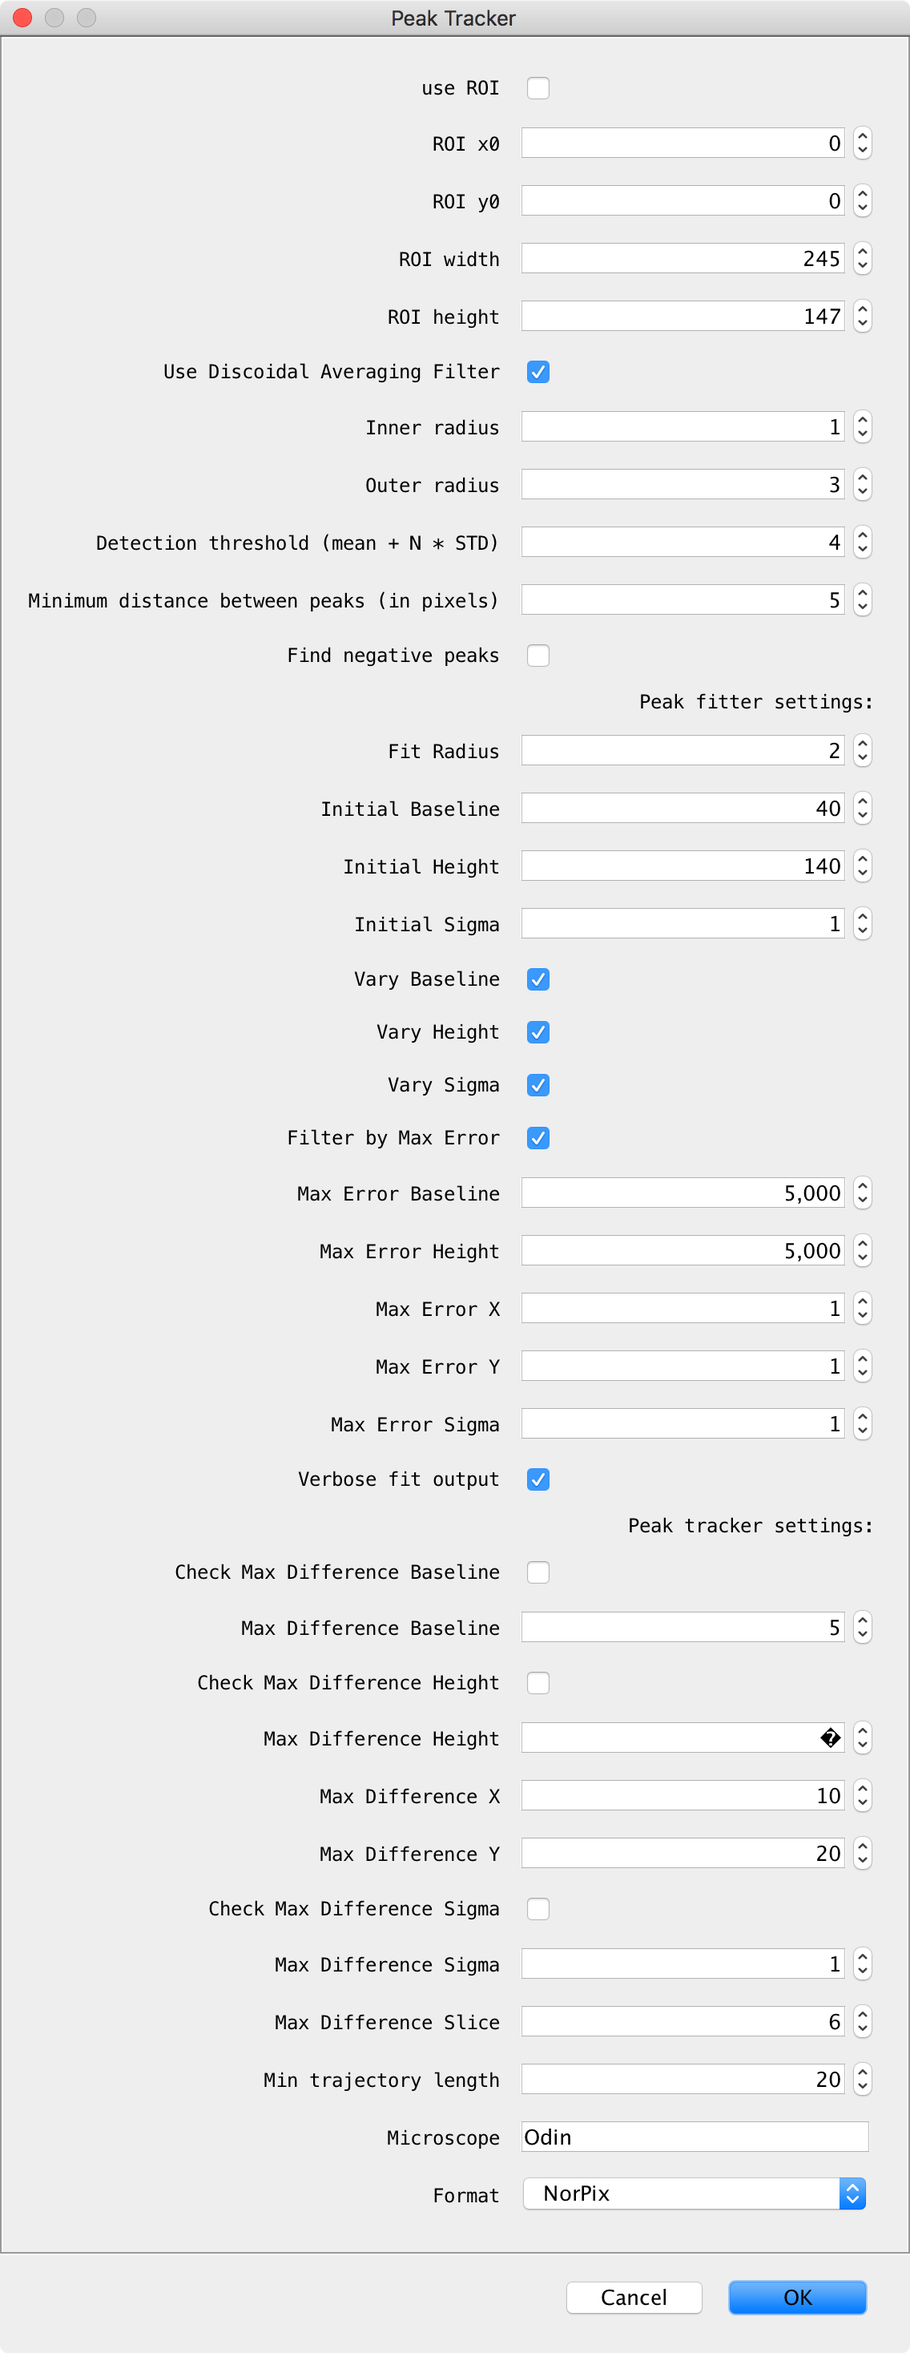
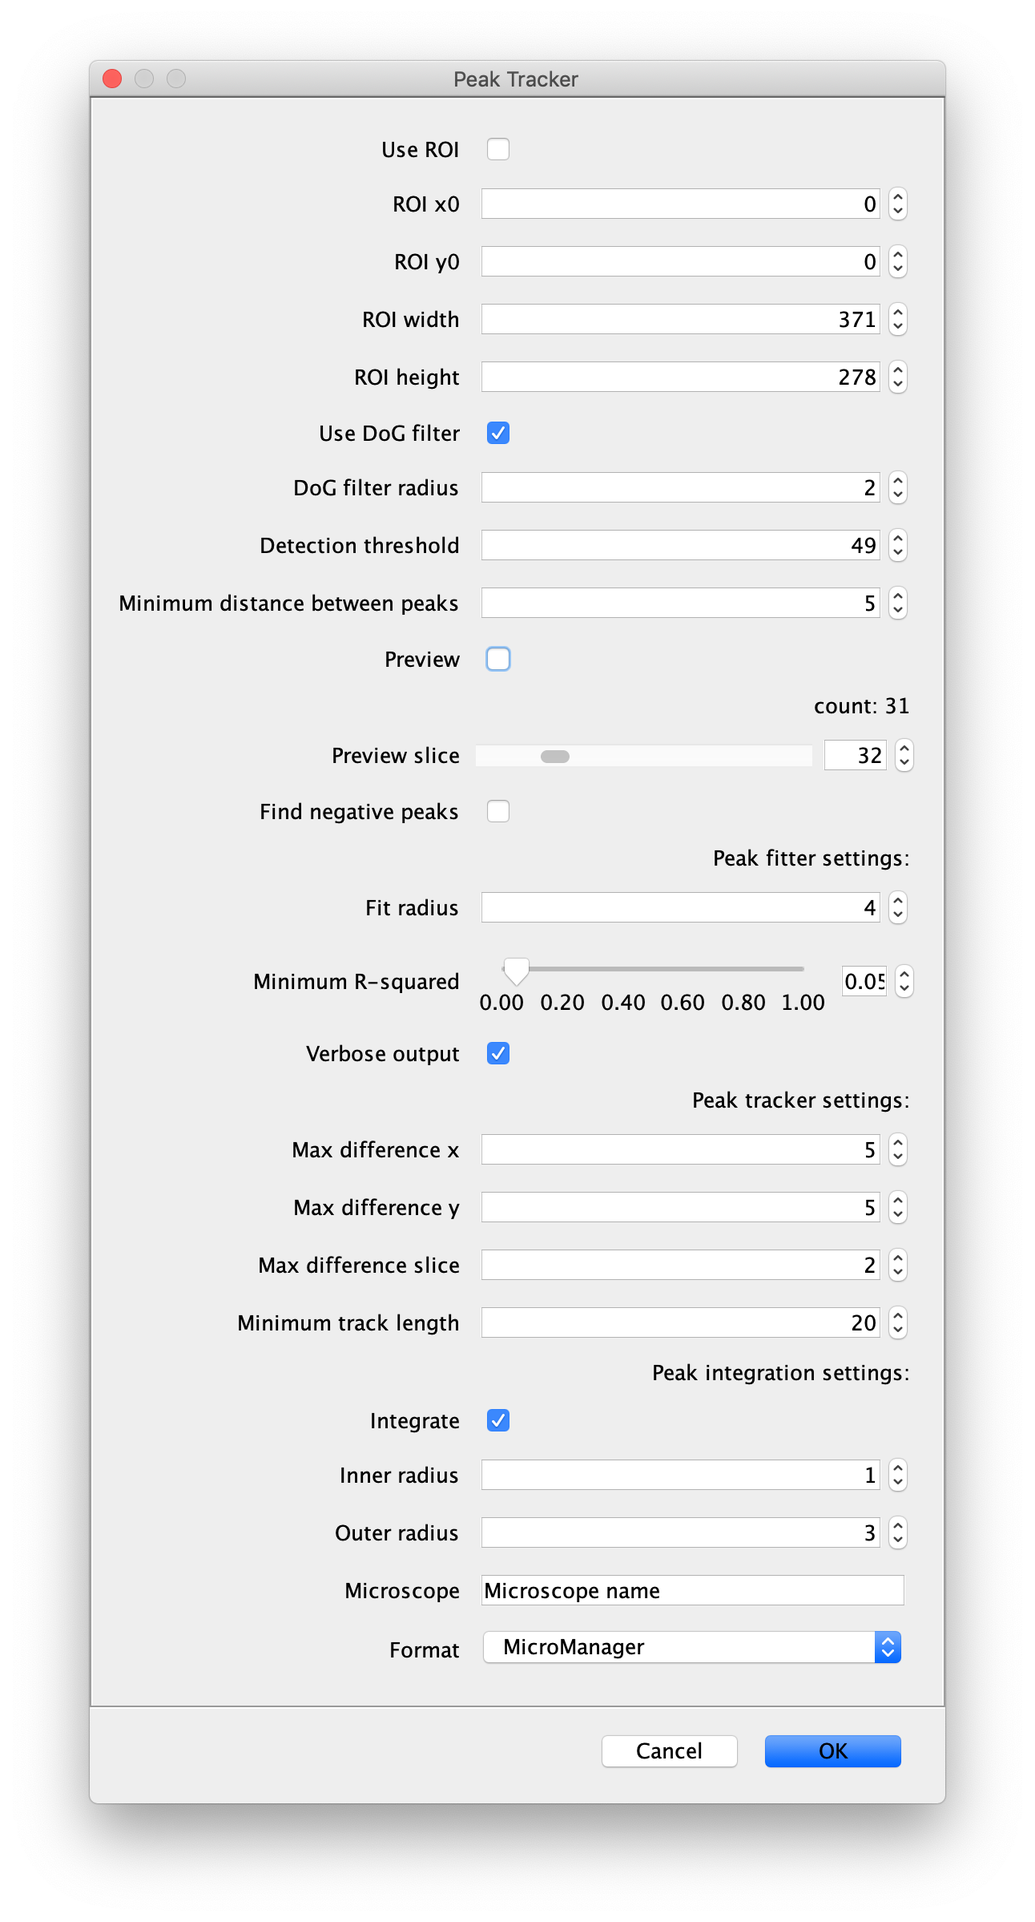
Update PeakTracker documentation

diff --git a/docs/image/PeakTracker.md b/docs/image/PeakTracker.md
@@ -3,19 +3,19 @@ layout: image
 title: Peak Tracker
 permalink: /docs/image/PeakTracker/index.html
 ---
-This command is used to find, fit and track peaks in images. Typically these are polystyrene beads or single fluorescent dyes or groups of dyes attached to biomolecules. This command is nearly the same as the [[PeakFinder]] command but with the addition of tracking and fewer output options. So a lot of the input documentation is the same between the two commands.
+This command is used to find, fit and track peaks in images. Typically these are polystyrene beads or single fluorescent dyes or groups of dyes attached to biomolecules. This command is nearly the same as the [PeakFinder](PeakFinder) command but with the addition of tracking and fewer output options. So a lot of the input documentation is the same between the two commands.
 
 To determine the optimal setting for peak finder, first the [[PeakFinder]] command can be used with the Preview button. Once the best settings have been determined - that find all peaks with minimal background - the settings can be used here. This will generate the best tracks because the accuracy of tracking depends entirely on the quality of the peak fits in individual frames.
 
 This command outputs a MoleculeArchive in which individual molecule records have DataTables with the x and y positions and slice. If verbose is checked, then all fit parameters are add to the DataTable. The MoleculeArchive will also contain metadata information from the image that can be used to convert from slice to Time and do a number of other useful operations provided by the other commands in the MoleculeArchive submenu.
 
-The [[ColorCodedTrackOverlay]] groovy script provides and excellent method for overlapping the tracking results with UIDs onto the image using the MoleculeArchive records. By running the movie forward frame by frame it is possible to see when tracking goes wrong and how to further optimise the tracking settings.
+The [Color coded track overlay]() groovy script provides and excellent method for overlapping the tracking results with UIDs onto the image using the MoleculeArchive records. By running the movie forward frame by frame it is possible to see when tracking goes wrong and how to further optimise the tracking settings.
 
-*Note* - Currently the status bar only runs during the peak finding and fitting steps. But tracking can also take some time. So be patient and your archive will appear. You can always check the console to see if a problem has occurred under Window->Console. Here you will also find the time it took for each step of the process and all the settings. The setting will also be placed in the log of the ImageMetaData record created and placed into the outputted MoleculeArchive.
+*Note* - Currently the status bar only runs during the peak finding and fitting steps. But tracking can also take some time. So be patient and your archive will appear. You can always check the console to see if a problem has occurred under Window->Console. Here you will also find the time it took for each step of the process and all the settings. The setting will also be placed in the log of the metadata record created and placed into the MoleculeArchive created.
 
 #### Inputs
 
-OMG that is a lot of inputs, but don't panic, they are all pretty simple to understand and overlap with the [[PeakFinder]] options. A lot of inputs are included for completeness to give fine control but are not needed in most normal cases.
+There are a lot of inputs, but don't panic, they are all pretty simple to understand and overlap with the [PeakFinder](PeakFinder) options. A lot of inputs are included for completeness to give fine control but do not need to be changed in most cases.
 
 <img align='center' src='{{site.baseurl}}/docs/image/img/Peak Tracker.png' width='450' />
 
@@ -25,63 +25,37 @@ OMG that is a lot of inputs, but don't panic, they are all pretty simple to unde
 * *ROI y0* - Upper right corner y0 position of ROI.
 * *ROI width* - width of the ROI.
 * *ROI height* - height of the ROI.
-* *Use Discoidal Averaging Filter* - If checked the image will be processed with a discoidal averaging filter using the Inner radius and Outer radius prior to peak finding. If unchecked the raw image will be used and the Inner and Outer radius settings will be ignored.
-* *Inner Radius* - Inner Radius beyond a single pixel used for discoidal processing. This should be enough to include your peak.
-* *Outer Radius* - Outer Radius determines the size of the ring used for calculating the background for discoidal averaging. This needs to be large enough so peak signal is exlcuded.
+* *Use DoG filter* - If checked the image will be processed with a Difference of Gaussian (DoG) filter before peak finding. Using an appropriately chosen radius this filter enhances real peaks with signal spread among several pixels and suppresses salt and pepper noise as demonstrated in [this systematic study](DoGFilterProperties). If unchecked the raw image will be used for peak finding.
+* *DoG filter radius* - The radius used for DoG filtering. The value chosen should reflect the size of the desired peaks. Decimal numbers are permitted.
 
-<img align='center' src='{{site.baseurl}}/docs/image/img/DS filter.png' width='600' />
+<img align='center' src='{{site.baseurl}}/docs/image/img/DoGFilterRadiiExample.png' width='600' />
 
-* *Detection threshold (mean + N * STD)* - This is how many standard deviations above the mean the peak detection threshold should be set at. So the input here is N in the expression. mean is the mean value of pixels in the image and STD is the standard deviation in the pixel values. Usually, between 2 and 4 is good for low signals and 5-8 is good for higher signals.
-* *Minimum distance between peaks (in pixels)* - This is the minimum allowed distance between peaks, This means only the pixel with the highest intensity within this radius will be accepted as a peak, even if there are other peaks above the threshold within this radius region. This is an important setting since most peaks have nearby pixels that are also above the detection threshold, but we only want to detect each peak once. See the image below for an example.
+* *Detection threshold* - This is threshold in pixel value used for peak detection. Pixels with values above this threshold are considered peaks and pixels below this threshold are considered background. For everyday peak detection, the DoG filter should be used in which case this threshold using on the DoG filtered image. In this case, we have found that values between 40 and 60 provide [optimal detection](DoGFilterProperties) for typical single-molecule observations. If the DoG Filter is turned off this threshold reflects raw pixel values in the input image.
+* *Minimum distance between peaks* - This is the minimum allowed distance between peaks. This means only the pixel with the highest intensity within this radius will be accepted as a peak, even if there are other pixels above the threshold within this radius region. This is an important setting since most peaks have nearby pixels that are also above the detection threshold, but we only want to detect each peak once. See the image below for an example.
 
 <img align='center' src='{{site.baseurl}}/docs/image/img/Minimum Distance.png' width='500' />
 
-* *Find Negative Peaks* - If checked this inverts the image for the purposes of peak detection, so that only peaks with negative values are detected. This is used in gradient images, where a negative gradient can results in a negative peak. This is useful for detecting the edges of long DNA molecules.
-* *Fit peaks* - If checked all peaks will be fit with 2D Gaussians to determine the sub pixel position. If left unchecked, all the remaining settings will be ignored and the peaks will be reported with their integer pixel positions. Fitting is done with the following 2D Gaussian equation:
+* *Find Negative Peaks* - If checked peak with negative pixel values are detected. This can be used in gradient images, where a negative gradient results in a negative peak. This is useful for detecting the edges of long DNA molecules and other structures.
 
-<img align='center' src='{{site.baseurl}}/docs/image/img/2D Gaussian.png' width='500' />
-
-Where x0 and y0 are the subpixel positions of the peak, Height, Baseline and Sigma match the settings below and f(x,y) gives the intensity as a function of pixel position for a given set of parameters.
-* *Fit Radius* - The radius of pixels used for fitting. 0 is one pixel, 1 is 9 pixels, 2 is 25 pixels. Usually 2 is a pretty good estimate depending on the peak size. There needs to be some pixels at the edges close to background for an ideal fit.
-* *Initial Baseline* - The initial guess for the mean background pixel value.
-* *Initial Height* - The initial guess for the difference between the mean background pixel at the value of the pixel at the top of the peak.
-* *Initial Sigma* - The initial guess for the sigma of the 2D Gaussian. Approx. 68% of the peak intensity should lie within one sigma (within one standard deviation from the center).
-* *Vary Baseline* - If checked the baseline will be refined to obtain the best fit. If left unchecked the initial baseline will be used as a constant during fitting.
-* *Vary Height* - If checked the height will be refined to obtain the best fit. If left unchecked the initial height will be used as a constant during fitting.
-* *Vary Sigma* - If checked the sigma will be refined to obtain the best fit. If left unchecked the initial sigma will be used as a constant during fitting.
-
-The following are the max allowed error in each parameter. If the error from fitting is larger than these estimates, then the fit will be rejected and the peak will be thrown-out. For optimal filtering these parameters should be empirically optimized by looking at the Verbose table fit output with Filter by Max Error checked. Then check Filter by Max Error with acceptable settings so only good fits are included.
-* *Filter by Max Error* - If checked all peaks fits will be checked again the Max Error thresholds below. If the error is beyond the threshold then the peak will be rejected and not included in the output. If unchecked all peak fit will be reported even very bad fits that might contain NaN values. If you have to use a low threshold to detect your peaks and you pick up some background (you should be able to see this using the preview button)
-* *Max Error Baseline* - The maximum allowed error in the baseline during fitting.
-* *Max Error Height* - The maximum allowed error in the height during fitting.
-* *Max Error X* - The maximum allowed error in the x coordinate during fitting.
-* *Max Error Y* - The maximum allowed error in the y coordinate during fitting.
-* *Max Error Sigma* - The maximum allowed error in Sigma during fitting.
-* *Verbose table fit output* - If checked all columns from fitting will be included in the table generated (baseline, error_baseline, height, error_height, x, error_x, y, error_y, sigma, error_sigma). If unchecked only the position columns will be included in the table generated (x, y). Very useful for optimising the parameters, or for other applications using various peak properties.
-The following are the setting for tracking absent in the [[PeakFinder]] command. Once all peaks have been found and fit, the program still doesn't know which peaks correspond to which molecules between slices. To connect all the peaks, the Peak Tracker does a nearest-neighbor search between frames. So the closest peak in the next frame to the current peak position is considered the same molecule.
+* *Fit Radius* - The radius of pixels used for peak fitting. 0 is one pixel, 1 is 9 pixels, 2 is 25 pixels. Usually 3 or 4 is a good estimate depending for typical single-molecule observations. Optimal fitting is done using a region with background pixels at the edges.
+* *Minimum R-squared* - This is the minimum allowed value for peak fits. R-squared is defined as 1 - SSres / SStot to match the definition used in [Prism](
+https://www.graphpad.com/guides/prism/7/curve-fitting/reg_intepretingnonlinr2.htm) as defined [here](https://en.wikipedia.org/wiki/Coefficient_of_determination) with 1.0 for perfect fits and 0.0 for fits no better than a straight line. Typical single-molecule images are noisy leading to large variation in R-squared values so this threshold should only be used as an additional step if further peak rejection is required. If set to 0, the R-square value will not be calculated. Values of 0.05 to 0.15 are reasonable for noisy images.
+* *Verbose output* - If checked all fit parameters are included in the output (baseline, height, x, y, sigma, R2). If unchecked only the position, slice, intensity columns will be included in the output. Verbose output can be used to optimise the R-squared minimum, or for calculations based on peak properties.
+The following are the settings for tracking absent in the [PeakFinder](PeakFinder) command. Once all peaks have been found and fit, which peaks correspond to which molecules between slices is still unknown. To connect all the peaks, the Peak Tracker does a nearest-neighbor search between frames. The closest peak in the next frame to the current peak position is considered the same molecule.
 
 <img align='center' src='{{site.baseurl}}/docs/image/img/Tracking Peak Stack.png' width='400' />
 
-* *Check Max Difference Baseline* - If checked the Max Difference Baseline setting will be used as a threshold to determine if the baseline difference for two peaks is too large for them to be linked. If left unchecked this setting is ignored. (Maybe this shouldn't set an included setting since usually the baseline is always the same and is just the image background level...)
-* *Max Difference Baseline* - The threshold baseline difference between peaks below which they are still allowed to be linked.
-* *Check Max Difference Height* - If checked the Max Difference Height setting will be used as a threshold to determine if the height difference for two peaks is too large for them to be linked. If left unchecked this setting is ignored. This can exclude linking of a very bright and very dim peak. For example, a single bead and a clump, or a single dye vs a cluster.
-* *Max Difference Height* - The threshold height difference between peaks below which they are still allowed to be linked. This is probably best determine using the [[PeakFinder]] in verbose mode and then looking at the differences between dim and bright peaks.
-The following settings define the boundaries of nearest neighbors that are allowed to be linked. These are very useful at ensuring only real links are made. Also, if you know your molecule only moves along once dimension you can restrict the other to further prevent incorrect links from occurring.
 * *Max Difference X* - The threshold difference between the X position of two peaks below which they are still allowed to be linked.
 * *Max Difference Y* - The threshold difference between the Y position of two peaks below which they are still allowed to be linked.
-* *Check Max Difference Sigma* - If checked the Max Difference Sigma setting will be used as a threshold to determine if the Sigma difference for two peaks is too large for them to be linked. If left unchecked this setting is ignored. Again this can be useful in preventing links between bright and dim molecules, since the bright molecules typically have a larger sigma or width.
-* *Max Difference Sigma* - The threshold difference between the Sigma values of two peaks below which they are still allowed to be linked.
 
-<img align='center' src='{{site.baseurl}}/docs/image/img/Peak Difference Settings.png' width='400' />
-
-* *Max Difference Slice* - The number of frames into the future to search for a possible link. This parameter is very important to ensure tracking is robust against single frames where peaks are not detected. Blinking events could cause a molecule to go dark for a couple frames. This setting ensures the track is still linked once the molecule is bright again. Alternatively, a molecule could go out of focus, again causing it to go below the detection threshold. If this setting is larger than the number of frames during which the peak wasn't detected, then the track will be picked up when the molecule is detected again. If this value is too large, it will take a long time to track and bad links will start to be formed. Usually 3-5 is a good range depending on your dataset.
-* *Min trajectory length* - All tracks with fewer than this number of slices will be rejected and removed from the MoleculeArchive. There are always a lot of very show tracks resulting from a molecule appearing for only a couple frames then going away, or if the peak detection threshold is very low, nearby false detections in consecutive frames can be linked to make short tracks. This removes all these events. For bead data this is almost always in the 50-200 or more range. However, it really depends on your experiment how this should be set, so you don't exclude good events.
-* *Microscope* - The name of the microscope used to collect this data. This name is included in the ImageMetaData record.
-* *Format* - This is the software used to collect the Image data. Based on this setting, the command will attempt to parse all the ImageMetaData information included in each tif frame header. This information will then be included in the DataTable and properties of the ImageMetaData. This information is very useful to automatically convert slice to time using the raw frame timestamp information and detecting the lasers and filters used on the fluorescence microscopes.
+* *Max Difference Slice* - The number of frames into the future to search for a possible link. This parameter is very important to ensure tracking is robust against single frames where peaks are not detected. Blinking events could cause a molecule to go dark for a couple frames. This setting ensures the track is still linked once the molecule is bright again. Alternatively, a molecule could go out of focus, again causing it to go below the detection threshold. If this value is too large, it will take a long time to track and bad links will start to be formed. Usually 3 to 5 is a good range.
+* *Minimum track length* - All tracks with fewer than this number of slices will be rejected and removed from the MoleculeArchive. Frequently single-molecule experimrents have many short tracks resulting from molecules appearing for only a couple frames then going away. This removes all these events.
+* *Microscope* - The name of the microscope used for data collection. This name is included in the metadata record.
+* *Format* - This is the software used to collect the Image data. Based on this setting, the command will attempt to parse all the metadata included in each tif frame header. This information will then be included in the Data Table and properties of the metadata. This information is very useful to automatically convert slice to time using the raw frame timestamp information and detecting the lasers and filters used.
 
 ### Output
 
-* *MoleculeArchive* - A MoleculeArchive with individual records for all tracked molecules as well as ImageMetaData information.
+* *MoleculeArchive* - A MoleculeArchive with individual records for all tracked molecules as well as metadata information.
 
 ### How to run this Command from a groovy script
 
@@ -90,10 +64,10 @@ The following settings define the boundaries of nearest neighbors that are allow
 #@ ImageJ ij
 
 import de.mpg.biochem.mars.molecule.*
-import de.mpg.biochem.mars.ImageProcessing.*
+import de.mpg.biochem.mars.ImageProcessing.commands.*
 
 //Make an instance of the Command you want to run...
-final FinderFitterTrackerCommand peakTracker = new FinderFitterTrackerCommand();
+final PeakTrackerCommand peakTracker = new PeakTrackerCommand()
 
 //Populates @Parameters Services etc.. using the current context
 //which we get from the ImageJ input...
@@ -105,38 +79,23 @@ peakTracker.setX0(0)
 peakTracker.setY0(0)
 peakTracker.setWidth(100)
 peakTracker.setHeight(100)
-peakTracker.setUseDiscoidalAveragingFilter(true)
-peakTracker.setInnerRadius(1)
-peakTracker.setOuterRadius(3)
-peakTracker.setThreshold(5)
-peakTracker.setMinimumDistance(4)
+peakTracker.setUseDogFiler(true)
+peakTracker.setDogFilterRadius(1.8d)
+peakTracker.setThreshold(50)
+peakTracker.setMinimumDistance(5)
 peakTracker.setFindNegativePeaks(false)
-peakTracker.setFitRadius(2)
-peakTracker.setInitialBaseline(40)
-peakTracker.setInitialHeight(150)
-peakTracker.setInitialSigma(1)
-peakTracker.setVaryBaseline(true)
-peakTracker.setVaryHeight(true)
-peakTracker.setVarySigma(true)
-peakTracker.setMaxErrorFilter(true)
-peakTracker.setMaxErrorBaseline(20)
-peakTracker.setMaxErrorHeight(30)
-peakTracker.setMaxErrorX(0.2)
-peakTracker.setMaxErrorY(0.2)
-peakTracker.setMaxErrorSigma(0.2)
-peakTracker.setVerboseFitOutput(false)
-peakTracker.setCheckMaxDifferenceBaseline(false)    
-peakTracker.setMaxDifferenceBaseline(500)
-peakTracker.setCheckMaxDifferenceHeight(false)
-peakTracker.setMaxDifferenceHeight(500)
+peakTracker.setFitRadius(4)
+peakTracker.setMinimumRsquared(0.0d)
+peakTracker.setVerboseOutput(false)
 peakTracker.setMaxDifferenceX(5)
 peakTracker.setMaxDifferenceY(5)
-peakTracker.setCheckMaxDifferenceSigma(false)
-peakTracker.setMaxDifferenceSigma(1)
 peakTracker.setMaxDifferenceSlice(5)
-peakTracker.setMinTrajectoryLength(50)
-peakTracker.setMicroscope("Odin")
-peakTracker.setImageFormat("NorPix")
+peakTracker.setMinimumTrackLength(10)
+peakTracker.setIntegrate(true)
+peakTracker.setIntegrationInnerRadius(1)
+peakTracker.setIntegrationOuterRadius(3)
+peakTracker.setMicroscope("Microscope")
+peakTracker.setImageFormat("MicroManager")
 
 //Run the Command
 peakTracker.run();
